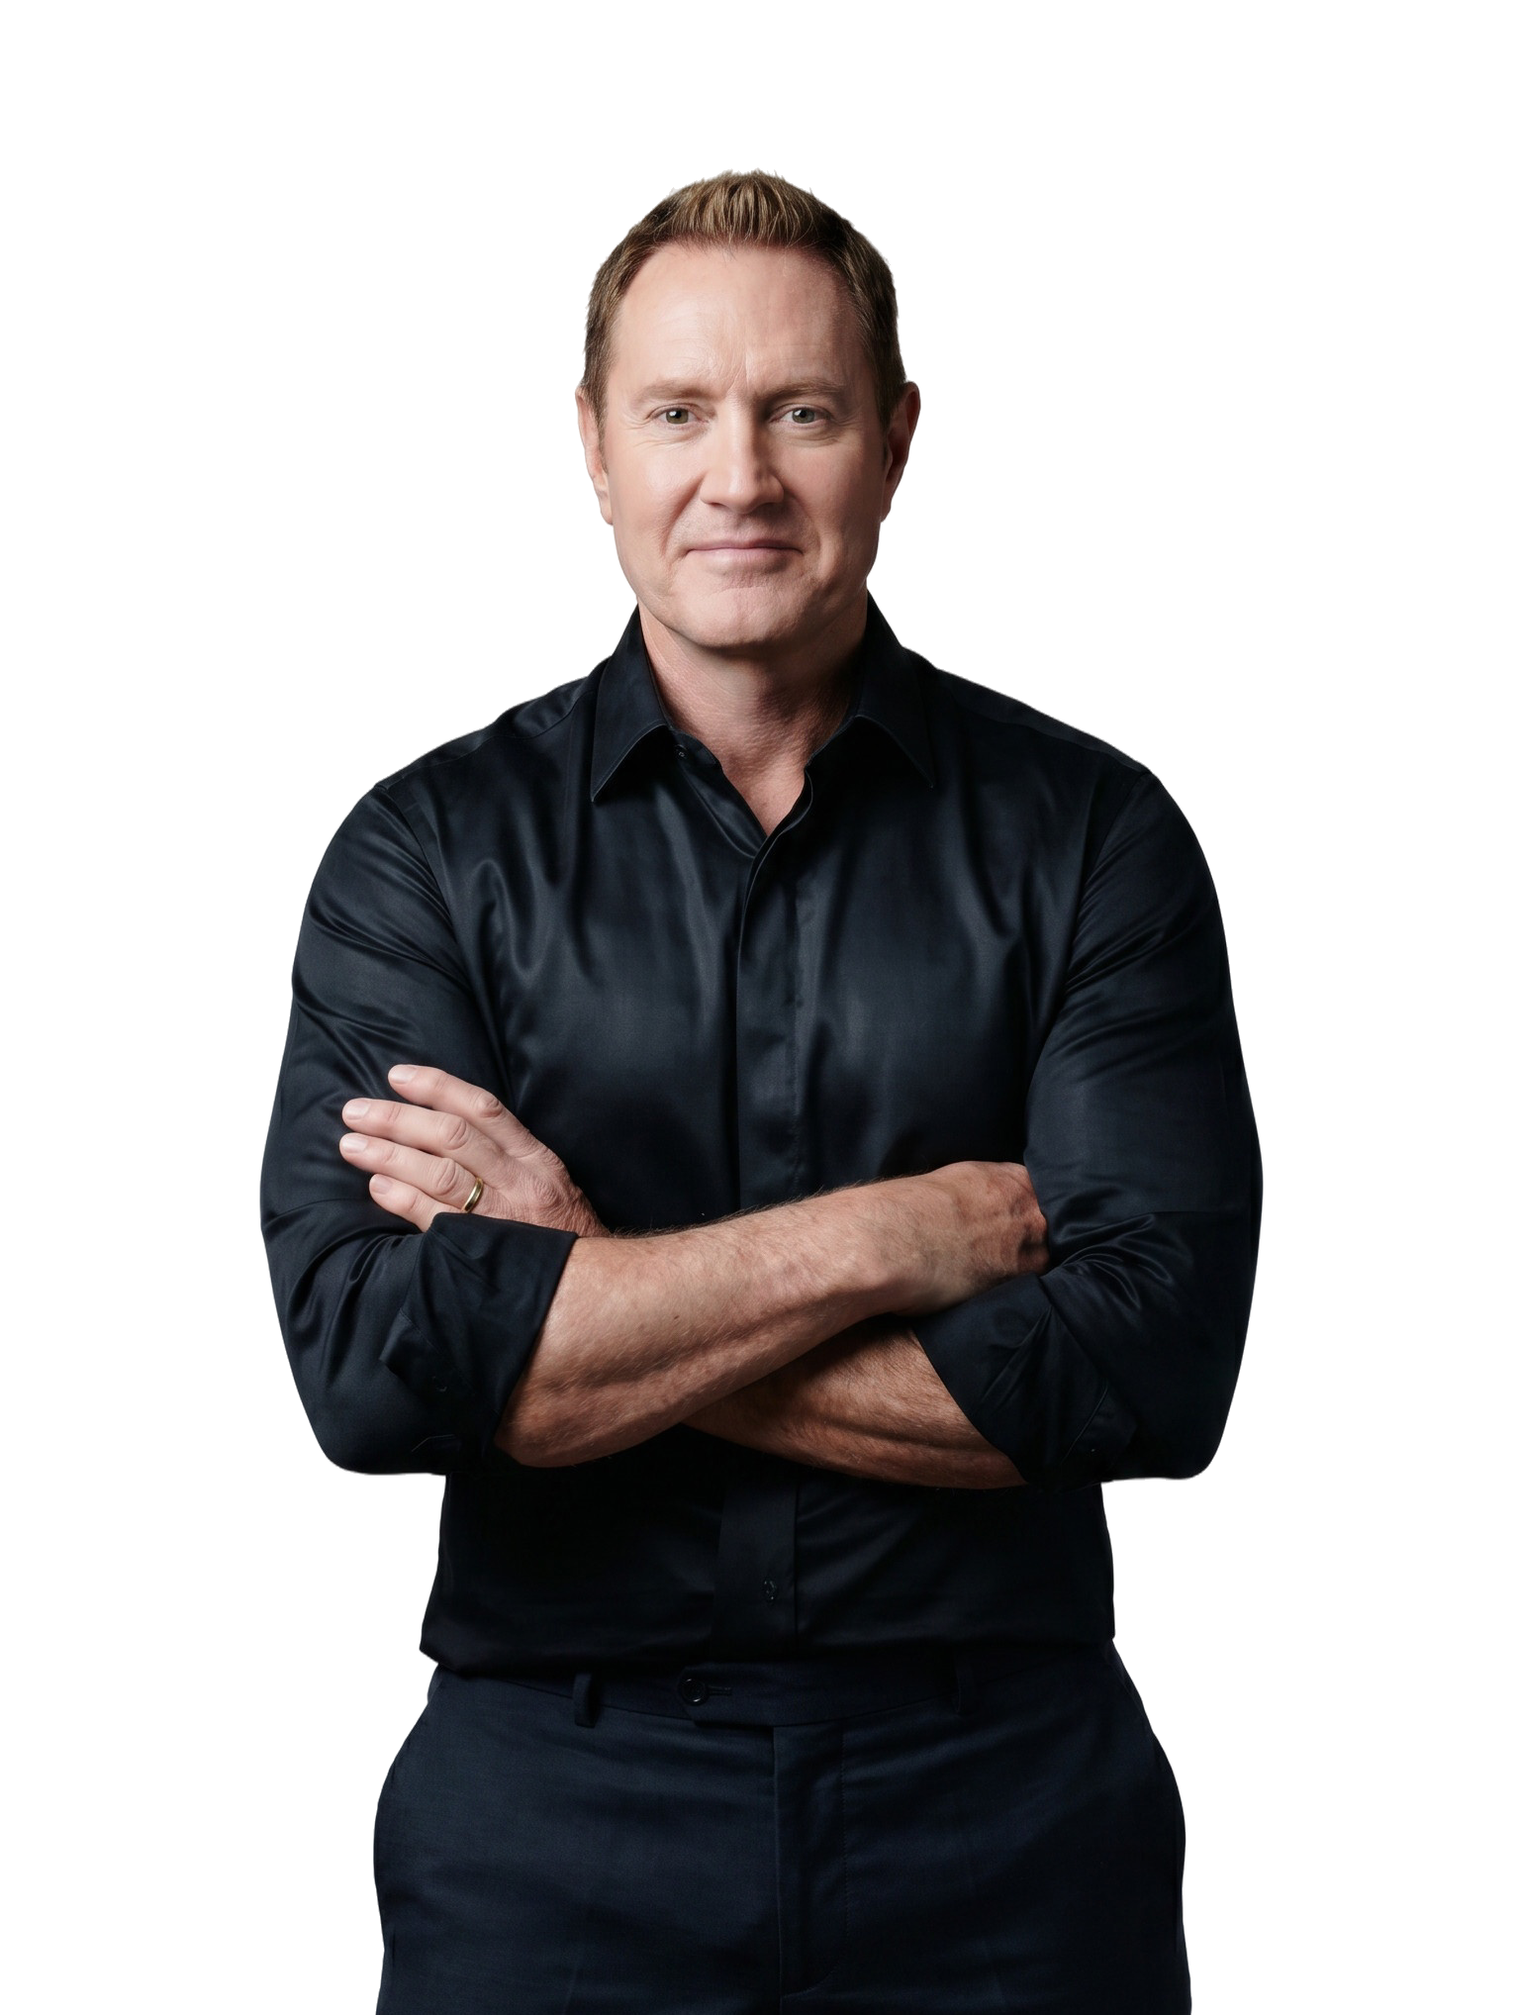
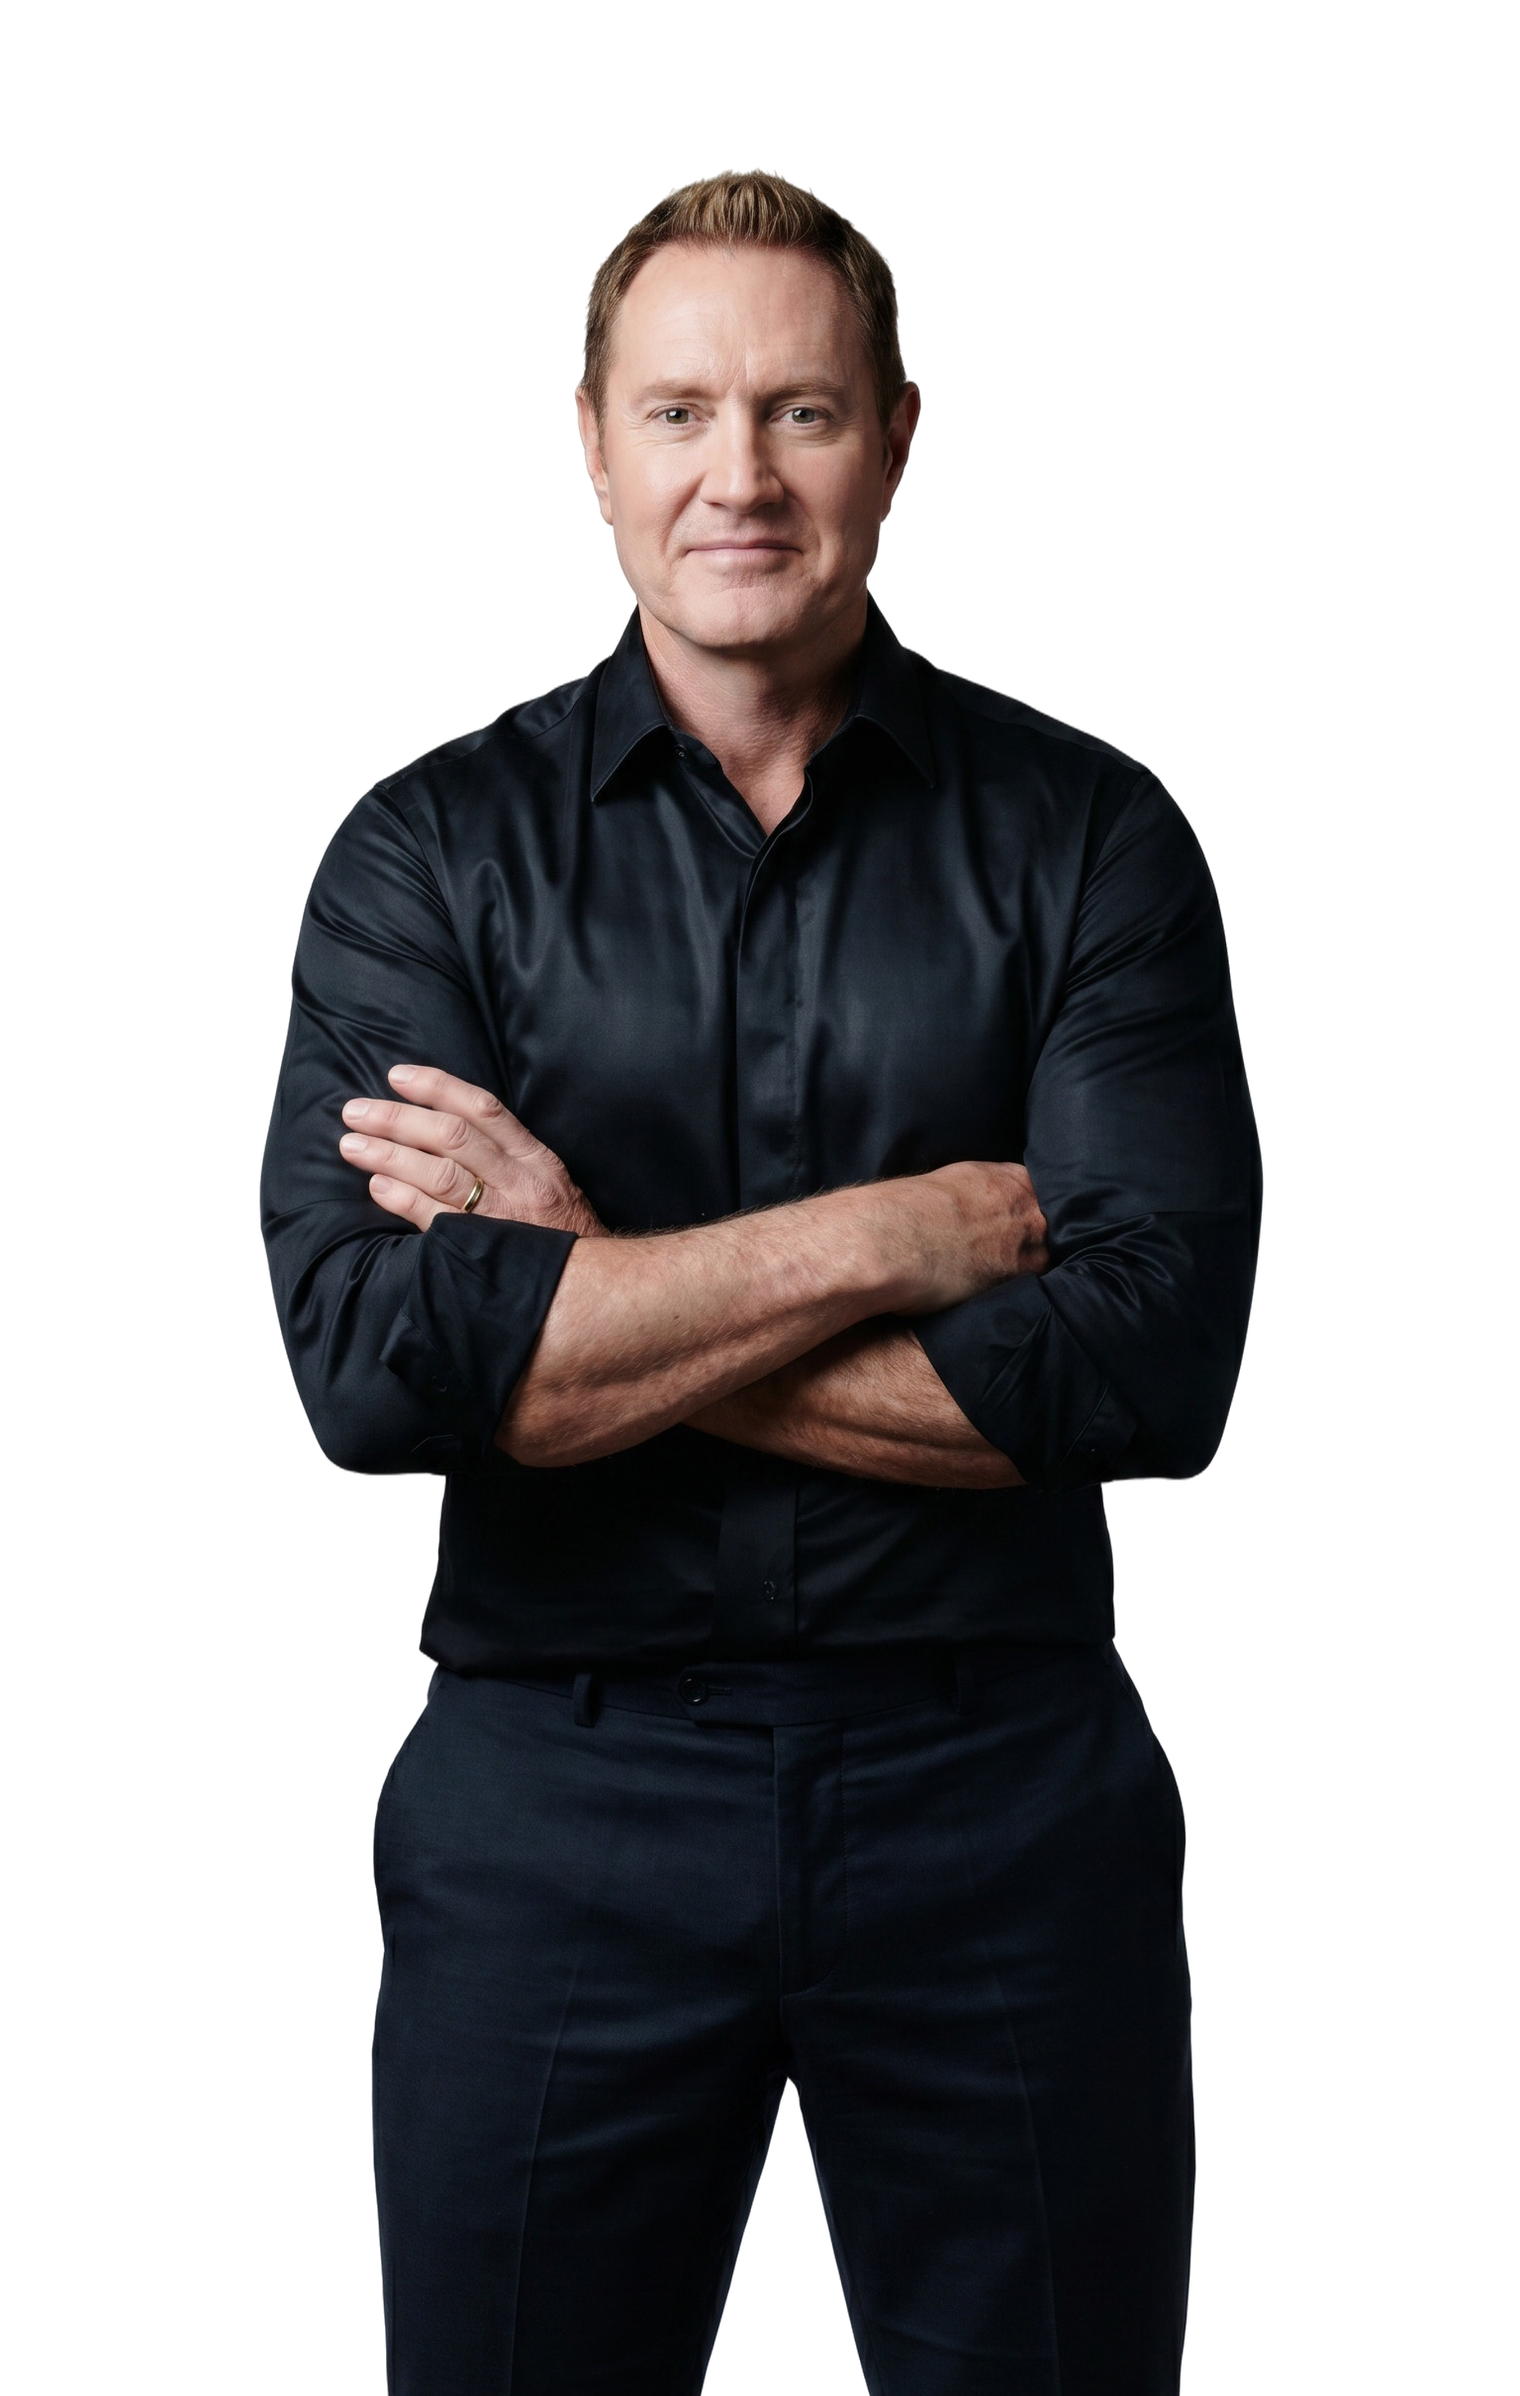
About: wall DH +20% (70->84% / 64->76% mobile) + give legs back
Re-cropped the wall figure from the original keeping 88% (vs prior 74%)
so more leg is restored, then raised display height so his head sits
closer to the top with less dead headroom.

diff --git a/about.html b/about.html
@@ -585,7 +585,7 @@
     position: absolute;
     bottom: 0; left: 50%;
     transform: translateX(-50%);
-    height: 70%;
+    height: 84%;
     z-index: 6;
     pointer-events: none;
     display: flex;
@@ -593,7 +593,7 @@
   }
   .access-dh picture { display: contents; }
   .access-dh img { height: 100%; width: auto; display: block; }
-  @media (max-width: 960px) { .access-dh { height: 64%; } }
+  @media (max-width: 960px) { .access-dh { height: 76%; } }
 
   /* RIGHT — copy column on dark */
   .access-text {
